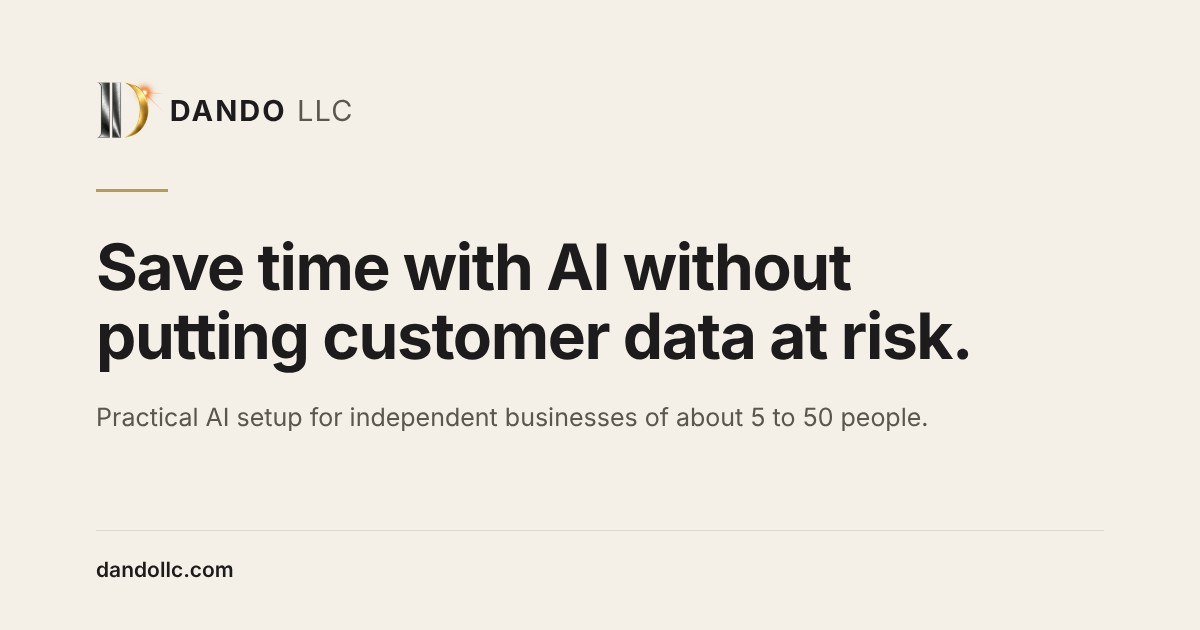
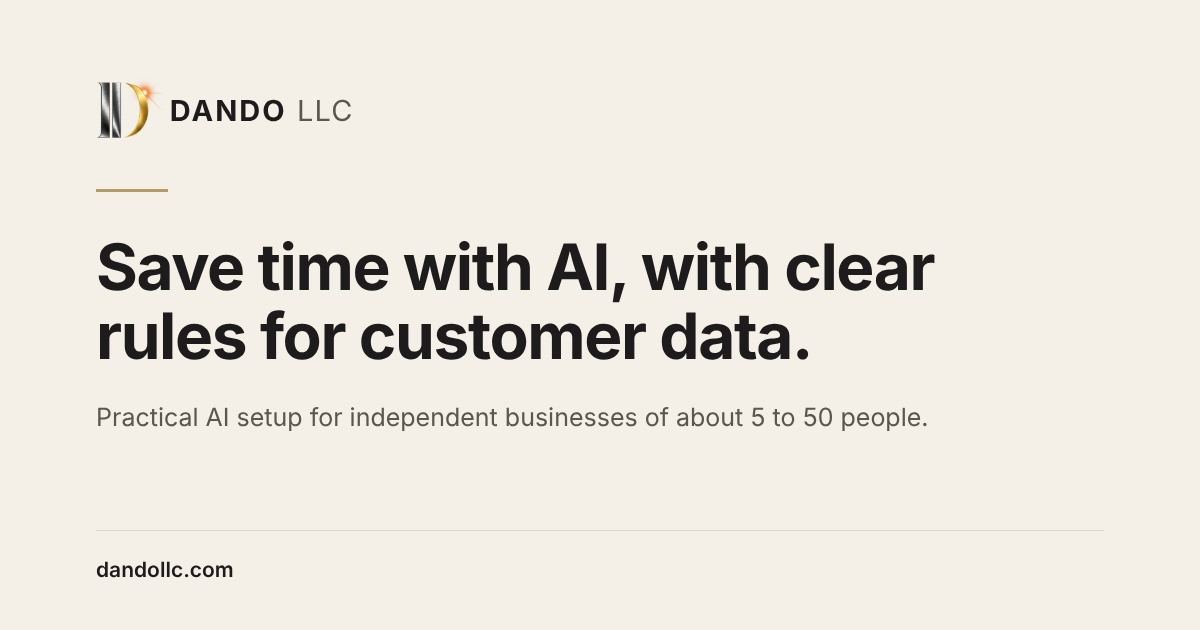
Legal review: qualify the footer and privacy promises, correct the examples, black mark in the report header (preview)

Changed region(s): [[0.0925, 0.3619, 0.8017, 0.6032], [0.0617, 0.573, 0.0925, 0.6032]]

diff --git a/index.html b/index.html
@@ -527,27 +527,27 @@
         <div class="offer-receive">
           <span class="list-label">What you receive</span>
           <p>A written report, plain enough for a board member, that ranks each problem by risk and says what to fix first. I quote the fee after the 30-minute call, once the scope is clear.</p>
-          <p>For law firms and legal teams, I sign a confidentiality agreement before seeing any client files, work on a sample you choose, and return or delete files when the engagement ends.</p>
+          <p>For law firms and legal teams, I sign a confidentiality agreement before seeing any client files and work on a sample you choose. When the engagement ends, I return or delete files as our agreement provides, subject to any legal hold.</p>
         </div>
         <figure class="figure">
           <span class="example-tag">Example</span>
           <a href="sample-report.jpg" target="_blank" rel="noopener"><img src="sample-report.jpg" width="1200" height="1553" loading="lazy" alt="Sample first page of an assessment report for a fictional insurer: a board summary, four risks ranked high to low with a fix for each, a sample test result, and a 90-day list."></a>
-          <figcaption>First page of an example report. The insurer and its figures are invented. The format is what a client receives.</figcaption>
+          <figcaption>First page of an example report. The insurer and its figures are invented. Format and length vary by engagement.</figcaption>
         </figure>
         <details class="report-text">
           <summary>Read the example report as text</summary>
           <p><strong>AI governance assessment.</strong> Prepared for the General Counsel, Harborline Mutual Insurance Company. Illustrative example. The company and its figures are invented.</p>
-          <p><strong>Summary for the board.</strong> Four AI uses were found. Two of them touch policyholder data. One has no human review that could catch a mistake.</p>
+          <p><strong>Summary for the board.</strong> Four AI uses were found. Three of them touch policyholder data. One has no human review that could catch a mistake.</p>
           <p><strong>What was found.</strong> Claims staff use an AI tool to summarize medical records on 60 percent of injury claims. The summaries are accepted without a check against the records in 9 of the 20 files sampled. Underwriting uses a second tool to draft declination letters; every letter is read by an underwriter before it goes out. Two further tools are used by individual staff without approval.</p>
           <p><strong>Risks, ranked.</strong></p>
           <ul>
             <li>High. Claims summaries go unreviewed. In the sample, the tool omitted a prior-injury note on 2 of 20 files. Fix first: name one reviewer per claim, and compare the summary with the record before it is relied on.</li>
-            <li>Medium. Two unapproved tools hold customer names and policy numbers outside the company&rsquo;s systems. Fix first: stop use until each tool is approved and the data is removed.</li>
-            <li>Medium. No written AI program. The NAIC Model Bulletin describes one; a use policy is one part of it. Fix first: adopt a one-page policy now, then build out the full program. Ask counsel about state rules.</li>
-            <li>Low. Declination letters are drafted by AI and read by an underwriter. The review works, but it leaves no record. Fix first: add a sign-off line to the letter file.</li>
+            <li>Medium. Two unapproved tools hold customer names and policy numbers outside the company&rsquo;s systems. Fix first: stop use. Keep a record of the data involved, then remove it once counsel checks incident duties.</li>
+            <li>Medium. No written AI program. The NAIC Model Bulletin describes one; a use policy is one part of it. Fix first: adopt a one-page policy by day 60, then build out the full program. Ask counsel about state rules.</li>
+            <li>Low. Declination letters are drafted by AI and read by an underwriter. Nothing records the check or what it found. Fix first: add a sign-off line to the letter file.</li>
           </ul>
-          <p><strong>Sample test.</strong> 20 claims summaries were graded against their source records using the REASON method. 17 were accurate, 2 omitted a material fact and 1 misstated a date. Error rate in the sample: 15 percent.</p>
-          <p><strong>What to do in the next 90 days.</strong> Assign reviewers for claims summaries and start the sign-off log (week 1). Remove customer data from the two unapproved tools (week 2). Adopt the AI policy and brief the board (by day 60). Re-test a new sample of 20 files (day 90).</p>
+          <p><strong>Sample test.</strong> 20 claims summaries were graded against their source records using REASON, a legal-reasoning rubric adapted for this test. 17 were accurate. 2 omitted a material fact. 1 misstated a date. Error rate in the sample: 15 percent.</p>
+          <p><strong>What to do in the next 90 days.</strong> Assign reviewers for claims summaries and start the sign-off log (week 1). Record what customer data is in the two unapproved tools, then remove it once counsel checks incident duties (week 2). Adopt the one-page AI policy and brief the board (by day 60). Re-test a new sample of 20 files (day 90).</p>
         </details>
         <a class="btn btn-primary" href="mailto:daniel@dandollc.com?subject=Assessment%20inquiry">Ask about an assessment</a>
       </div>
@@ -629,7 +629,7 @@
           <p class="quote">The Customer may terminate this Agreement on ninety (90) days&rsquo; written notice, <mark>provided that no such notice may be given before the second anniversary of the Effective Date</mark>.</p>
         </div>
       </div>
-      <p class="exhibit-result"><strong>Missed:</strong> the summary drops the two-year lock-in, and the reviewer approved it without checking clause 14.2.</p>
+      <p class="exhibit-result"><strong>Missed:</strong> the customer can&rsquo;t give notice until the second anniversary, so the agreement runs at least two years and 90 days. The summary drops this, and the reviewer approved it without checking clause 14.2.</p>
       <figcaption>The contract and the review are invented for illustration.</figcaption>
     </figure>
   </div>
@@ -643,9 +643,9 @@
     </div>
     <div class="thesis-body">
       <p>AI can write a draft or score a risk in seconds. A person still has to review it, often with less time than before. So the review shrinks to a quick look. If the answer looks right, it goes out.</p>
-      <p>More rules rarely fix this, because most add steps without improving the review.</p>
-      <p>Enterprise AI platforms keep a log of each question and answer. The log doesn&rsquo;t show whether anyone reviewed the answer against the source.</p>
-      <p>Most everyday AI use needs only simple rules: which tools are approved, and what data stays out. A few decisions need more, the ones where AI output reaches a customer, a regulator or a legal position. Those need a reviewer who could actually catch a mistake, and a record that shows the review happened. This is what that record looks like:</p>
+      <p>Adding rules doesn&rsquo;t fix this on its own, because a rule can add steps without improving the review.</p>
+      <p>Many enterprise AI platforms can keep a log of questions and answers. A log like that doesn&rsquo;t show whether anyone reviewed the answer against the source.</p>
+      <p>For much everyday AI use, simple rules cover the main risks: which tools are approved, and what data stays out. Some decisions need more, the ones where AI output reaches a customer, a regulator or a legal position. Those need a reviewer who could actually catch a mistake, and a record that shows the review happened. This is what that record looks like:</p>
       <table class="log">
         <caption><span class="example-tag">Example</span>Sign-off log excerpt. Names and files are invented.</caption>
         <thead><tr><th scope="col">File</th><th scope="col">AI output</th><th scope="col">Reviewer</th><th scope="col">Checked against</th><th scope="col">Result</th></tr></thead>
@@ -734,7 +734,7 @@
       <h2 id="contact-title">Start with a 30-minute call.</h2>
       <p class="contact-lead">The call is free. Tell me where your team uses AI, and I&rsquo;ll tell you whether an assessment would help and what it would cover. If it fits, I quote the fee after the call.</p>
       <p><a href="https://calendar.google.com/calendar/appointments/schedules/AcZssZ2Tv8VllMrl5kL9UvSXAp3iEmmsTnsm45xSdXyyjG5At5GldBkTYADpoZZcaoclMWQwm9wZTdU8" target="_blank" rel="noopener" class="btn btn-primary" data-book>Book a 30-minute call</a></p>
-      <p class="contact-note">Booking runs through Google Calendar. Your name and email go to Google and to DANDO and are used only to schedule, prepare for and follow up on the call. Google&rsquo;s privacy policy also applies on its booking page.</p>
+      <p class="contact-note">Booking runs through Google Calendar. Your name and email go to Google and to DANDO, and DANDO uses them to schedule, prepare for and follow up on the call. <a href="https://policies.google.com/privacy" target="_blank" rel="noopener">Google&rsquo;s privacy policy</a> applies on its booking page. See the <a href="privacy.html">privacy notice</a>.</p>
       <a href="mailto:daniel@dandollc.com" class="contact-email">daniel@dandollc.com</a>
       <ul class="topics" aria-label="Email about a specific topic">
         <li><a href="mailto:daniel@dandollc.com?subject=Assessment%20inquiry">Assessment</a></li>
@@ -783,7 +783,7 @@
     </div>
     <div class="footer-bottom">
       <p>&copy; 2026 DANDO LLC. DANDO and the DANDO logo are trademarks of DANDO LLC.</p>
-      <p>DANDO provides AI governance consulting, training and research. It is not a law firm and does not provide legal advice or legal services. Contacting or engaging DANDO does not create an attorney-client relationship, and the protections of that relationship do not apply to DANDO&rsquo;s work. Confidentiality is covered by your agreement with DANDO. Do not assume communications with DANDO or its reports are privileged. If your lawyer engages DANDO to help give you legal advice, whether privilege applies depends on how the engagement is set up, and DANDO does not promise it.</p>
+      <p>DANDO provides AI governance consulting, training and research. It is not a law firm and does not provide legal advice or legal services. Contacting or engaging DANDO for these services does not create an attorney-client relationship. Do not assume communications with DANDO or its reports are privileged; which protections apply depends on the circumstances and the governing law. Confidentiality is covered by your agreement with DANDO. If your lawyer engages DANDO to help give legal advice, DANDO does not promise that privilege will apply.</p>
       <p>Daniel D. Calloway&nbsp;III is responsible for this site&rsquo;s content. He is admitted to practice law only in the District of Columbia and Maryland and is not admitted in North Carolina or any other state.</p>
       <p><a href="privacy.html">Privacy</a> &middot; <a href="accessibility.html">Accessibility</a></p>
     </div>

diff --git a/privacy.html b/privacy.html
@@ -389,28 +389,28 @@
     <div class="prose">
       <h2>What this site collects</h2>
       <p>This site has no forms, analytics, advertising tools or tracking cookies. If you use the Dark or Light button, your browser saves that choice on your device so the site remembers it. The choice is not sent to DANDO.</p>
-      <p>GitHub hosts the site. GitHub logs the IP address of every visitor to sites it hosts and keeps it for security purposes. DANDO does not receive those logs.</p>
+      <p>GitHub hosts the site. GitHub logs the IP address of every visitor to sites it hosts and keeps it for security purposes, as <a href="https://docs.github.com/en/pages/getting-started-with-github-pages/what-is-github-pages#data-collection" target="_blank" rel="noopener">GitHub&rsquo;s documentation</a> explains.</p>
 
       <h2>Booking a call</h2>
-      <p>The booking button opens a Google Calendar appointment page that DANDO runs. When you book, Google collects your first and last name and your email address and shares them with DANDO so the call can be scheduled with a Google Meet link. The booking page is also covered by Google&rsquo;s privacy policy, which the page links to, and Google may set its own cookies there. Please keep confidential or privileged information out of anything you send before an engagement.</p>
+      <p>The booking button opens a Google Calendar appointment page that DANDO runs. When you book, Google collects your first and last name and your email address and shares them with DANDO so the call can be scheduled with a Google Meet link. The booking page is also covered by <a href="https://policies.google.com/privacy" target="_blank" rel="noopener">Google&rsquo;s privacy policy</a>, and Google may set its own cookies there. Please keep confidential or privileged information out of the booking page and your first emails. If an engagement goes ahead, we agree in writing how confidential files are shared.</p>
 
       <h2>Email</h2>
-      <p>If you email daniel@dandollc.com, DANDO receives your email address and whatever you include. Google Workspace hosts DANDO&rsquo;s email and calendar.</p>
+      <p>If you email daniel@dandollc.com, DANDO receives your email address and whatever you include. Google hosts DANDO&rsquo;s email and calendar.</p>
 
       <h2>How DANDO uses it</h2>
-      <p>DANDO uses this information only to schedule and prepare for calls, to reply to you, and to keep a record of the conversation. DANDO does not sell or rent personal information and does not use it for advertising.</p>
+      <p>DANDO uses this information to schedule and prepare for calls, to reply to you, and to keep a record of the conversation. DANDO does not sell or rent personal information and does not use it for advertising.</p>
 
       <h2>Who else receives it</h2>
-      <p>Google, as DANDO&rsquo;s email and calendar provider, and GitHub, as the site host. DANDO shares personal information with anyone else only if the law requires it.</p>
+      <p>DANDO&rsquo;s service providers handle this information as part of running the site, email and scheduling. They include Google, which provides DANDO&rsquo;s email, calendar and booking page, and GitHub, which hosts the site. DANDO may also disclose information when the law requires it.</p>
 
       <h2>How long it is kept</h2>
-      <p>Booking details and email are kept as long as they are needed for the purposes above and for DANDO&rsquo;s business records.</p>
+      <p>Booking details and email are kept as long as they are needed for the purposes above and for DANDO&rsquo;s business records. Files shared during an engagement are kept, returned or deleted as the engagement agreement provides.</p>
 
       <h2>Your choices</h2>
       <p>You can ask to see, correct or delete the information DANDO holds about you by emailing daniel@dandollc.com.</p>
 
       <h2>Do Not Track signals and other parties</h2>
-      <p>This site does not track visitors over time or across other sites, so a browser&rsquo;s Do Not Track signal does not change how it works. Google, on its booking page and in Google Meet, and GitHub, as the site host, may collect information about your visit under their own privacy policies.</p>
+      <p>This site does not track visitors over time or across other sites, so a browser&rsquo;s Do Not Track signal does not change how it works. Google, on its booking page and in Google Meet, and GitHub, as the site host, may collect information about your visit under their own privacy policies: <a href="https://policies.google.com/privacy" target="_blank" rel="noopener">Google&rsquo;s</a> and <a href="https://docs.github.com/en/site-policy/privacy-policies/github-general-privacy-statement" target="_blank" rel="noopener">GitHub&rsquo;s</a>.</p>
 
       <h2>Children</h2>
       <p>This site is for businesses and is not directed to children under 13.</p>
@@ -460,7 +460,7 @@
     </div>
     <div class="footer-bottom">
       <p>&copy; 2026 DANDO LLC. DANDO and the DANDO logo are trademarks of DANDO LLC.</p>
-      <p>DANDO provides AI governance consulting, training and research. It is not a law firm and does not provide legal advice or legal services. Contacting or engaging DANDO does not create an attorney-client relationship, and the protections of that relationship do not apply to DANDO&rsquo;s work. Confidentiality is covered by your agreement with DANDO. Do not assume communications with DANDO or its reports are privileged. If your lawyer engages DANDO to help give you legal advice, whether privilege applies depends on how the engagement is set up, and DANDO does not promise it.</p>
+      <p>DANDO provides AI governance consulting, training and research. It is not a law firm and does not provide legal advice or legal services. Contacting or engaging DANDO for these services does not create an attorney-client relationship. Do not assume communications with DANDO or its reports are privileged; which protections apply depends on the circumstances and the governing law. Confidentiality is covered by your agreement with DANDO. If your lawyer engages DANDO to help give legal advice, DANDO does not promise that privilege will apply.</p>
       <p>Daniel D. Calloway&nbsp;III is responsible for this site&rsquo;s content. He is admitted to practice law only in the District of Columbia and Maryland and is not admitted in North Carolina or any other state.</p>
       <p><a href="privacy.html">Privacy</a> &middot; <a href="accessibility.html">Accessibility</a></p>
     </div>

diff --git a/makeover.html b/makeover.html
@@ -5,13 +5,13 @@
 <meta name="viewport" content="width=device-width, initial-scale=1, viewport-fit=cover">
 <meta name="robots" content="noindex">
 <title>Practical AI setup for independent businesses | DANDO LLC</title>
-<meta name="description" content="Save time with AI without putting customer data at risk. One everyday task set up with your team, a one-page AI policy, and a written count of the time saved.">
+<meta name="description" content="Save time with AI, with clear rules for customer data. One everyday task set up with your team, a one-page AI policy, and a written count of the time saved.">
 <link rel="canonical" href="https://dandollc.com/makeover.html">
 <meta name="theme-color" content="#F4F0E8">
 <meta property="og:type" content="website">
 <meta property="og:site_name" content="DANDO LLC">
 <meta property="og:title" content="Practical AI setup for independent businesses | DANDO LLC">
-<meta property="og:description" content="Save time with AI without putting customer data at risk. One everyday task set up with your team, a one-page AI policy, and a written count of the time saved.">
+<meta property="og:description" content="Save time with AI, with clear rules for customer data. One everyday task set up with your team, a one-page AI policy, and a written count of the time saved.">
 <meta property="og:url" content="https://dandollc.com/makeover.html">
 <meta property="og:image" content="https://dandollc.com/social-card-makeover-flare-2026-10-31.jpg">
 <meta property="og:image:width" content="1200">
@@ -19,7 +19,7 @@
 <meta property="og:image:alt" content="Practical AI setup for independent businesses | DANDO LLC">
 <meta name="twitter:card" content="summary_large_image">
 <meta name="twitter:title" content="Practical AI setup for independent businesses | DANDO LLC">
-<meta name="twitter:description" content="Save time with AI without putting customer data at risk. One everyday task set up with your team, a one-page AI policy, and a written count of the time saved.">
+<meta name="twitter:description" content="Save time with AI, with clear rules for customer data. One everyday task set up with your team, a one-page AI policy, and a written count of the time saved.">
 <meta name="twitter:image" content="https://dandollc.com/social-card-makeover-flare-2026-10-31.jpg">
 <link rel="icon" type="image/png" href="dando-mark-nostar.png">
 <style>
@@ -376,7 +376,7 @@
   <div class="wrap hero-grid">
     <div class="hero-copy">
       <span class="eyebrow">Practical AI setup for independent businesses</span>
-      <h1 id="hero-title">Save time with AI without putting customer data at risk.</h1>
+      <h1 id="hero-title">Save time with AI, with clear rules for customer data.</h1>
       <p class="hero-lede">I set up one everyday task with AI, alongside your team, and measure how much time it saves. You also get a one-page AI policy that says what data stays out and who checks AI work before it reaches a customer.</p>
       <div class="hero-actions">
         <a href="mailto:daniel@dandollc.com?subject=AI%20setup%20inquiry" class="btn btn-primary">Ask about an AI setup</a>
@@ -497,7 +497,7 @@
     </div>
     <div class="footer-bottom">
       <p>&copy; 2026 DANDO LLC. DANDO and the DANDO logo are trademarks of DANDO LLC.</p>
-      <p>DANDO provides AI governance consulting, training and research. It is not a law firm and does not provide legal advice or legal services. Contacting or engaging DANDO does not create an attorney-client relationship, and the protections of that relationship do not apply to DANDO&rsquo;s work. Confidentiality is covered by your agreement with DANDO. Do not assume communications with DANDO or its reports are privileged. If your lawyer engages DANDO to help give you legal advice, whether privilege applies depends on how the engagement is set up, and DANDO does not promise it.</p>
+      <p>DANDO provides AI governance consulting, training and research. It is not a law firm and does not provide legal advice or legal services. Contacting or engaging DANDO for these services does not create an attorney-client relationship. Do not assume communications with DANDO or its reports are privileged; which protections apply depends on the circumstances and the governing law. Confidentiality is covered by your agreement with DANDO. If your lawyer engages DANDO to help give legal advice, DANDO does not promise that privilege will apply.</p>
       <p>Daniel D. Calloway&nbsp;III is responsible for this site&rsquo;s content. He is admitted to practice law only in the District of Columbia and Maryland and is not admitted in North Carolina or any other state.</p>
       <p><a href="privacy.html">Privacy</a> &middot; <a href="accessibility.html">Accessibility</a></p>
     </div>

diff --git a/accessibility.html b/accessibility.html
@@ -433,7 +433,7 @@
     </div>
     <div class="footer-bottom">
       <p>&copy; 2026 DANDO LLC. DANDO and the DANDO logo are trademarks of DANDO LLC.</p>
-      <p>DANDO provides AI governance consulting, training and research. It is not a law firm and does not provide legal advice or legal services. Contacting or engaging DANDO does not create an attorney-client relationship, and the protections of that relationship do not apply to DANDO&rsquo;s work. Confidentiality is covered by your agreement with DANDO. Do not assume communications with DANDO or its reports are privileged. If your lawyer engages DANDO to help give you legal advice, whether privilege applies depends on how the engagement is set up, and DANDO does not promise it.</p>
+      <p>DANDO provides AI governance consulting, training and research. It is not a law firm and does not provide legal advice or legal services. Contacting or engaging DANDO for these services does not create an attorney-client relationship. Do not assume communications with DANDO or its reports are privileged; which protections apply depends on the circumstances and the governing law. Confidentiality is covered by your agreement with DANDO. If your lawyer engages DANDO to help give legal advice, DANDO does not promise that privilege will apply.</p>
       <p>Daniel D. Calloway&nbsp;III is responsible for this site&rsquo;s content. He is admitted to practice law only in the District of Columbia and Maryland and is not admitted in North Carolina or any other state.</p>
       <p><a href="privacy.html">Privacy</a> &middot; <a href="accessibility.html">Accessibility</a></p>
     </div>
